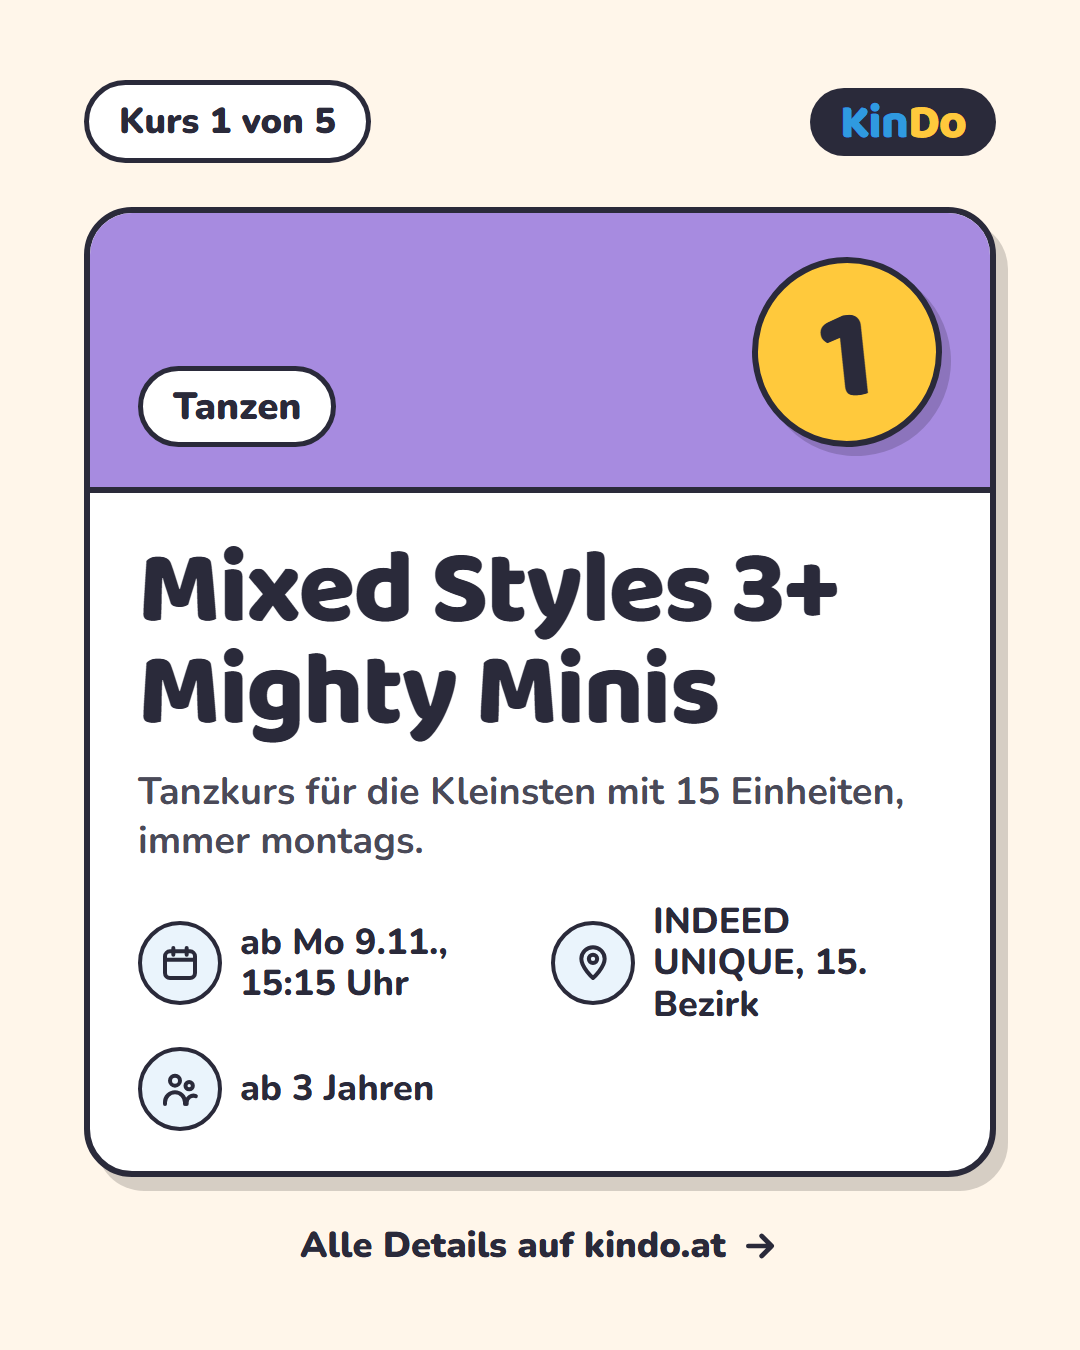
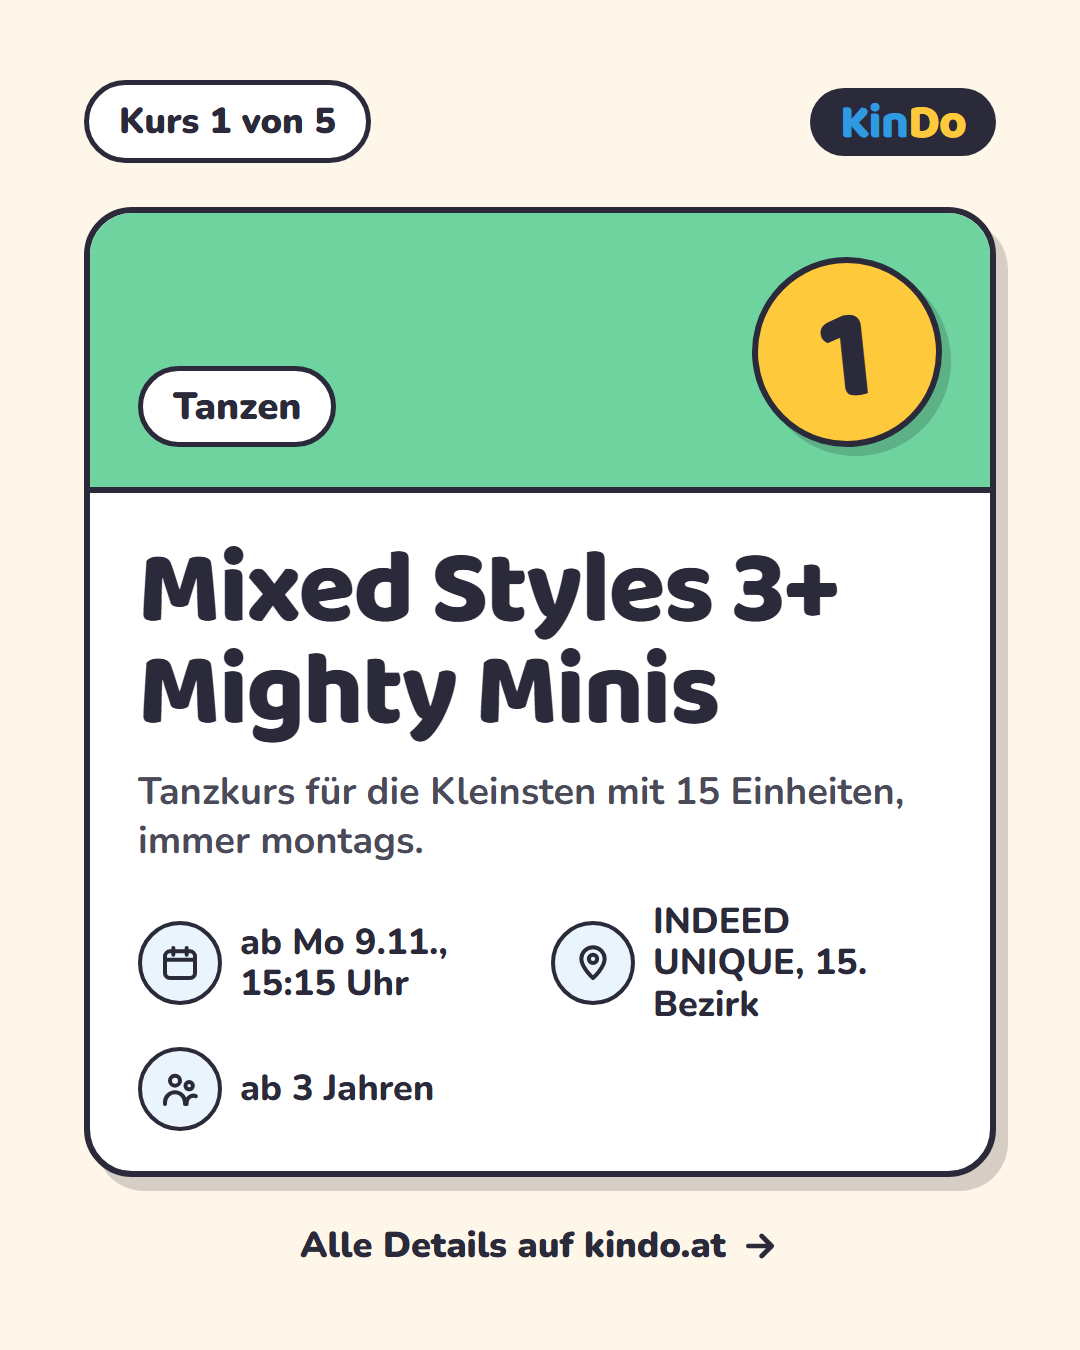
Jede Kategorie bekommt ihre eigene Farbe
Bisher teilten sich Musik, Sport, Draußen und Ausflug dasselbe Grün (dazu Kino, Zaubern und
Schwimmen Blau, Theater und Tanzen Lila, Museum und Lesen Türkis). Jetzt hat jede der 13
Kategorien eine eigene Farbe: die sieben KinDo-Farben plus sechs Sticker-Farben in derselben
Helligkeit (Musik gelb, Sport orange, Ausflug limette, Kino hellblau-violett, Zaubern orchidee,
Tanzen mint, Lesen sand). Auf gelbem Streifen ist der Kreis weiß, sonst wäre er unsichtbar.
bild.test.js prüft, dass sich keine zwei Kategorien eine Farbe teilen.

Kurs-Karussell 2026-11-09 mit den neuen Farben neu erzeugt.

Changed region(s): [[0.0611, 0.1556, 0.9167, 0.3733]]

diff --git a/bild.js b/bild.js
@@ -18,10 +18,12 @@ const { chromium } = require('playwright');
 
 const B = 1080, H = 1350;
 const INK = '#2a2a3a';
+// Jede Kategorie hat ihre eigene Farbe, damit sich zwei Karten im selben Karussell nie gleichen (Clemens, 8.11.2026).
+// Die ersten sieben sind die KinDo-Farben, dazu sechs Sticker-Farben in derselben Helligkeit (dunkle Schrift bleibt lesbar).
 const FARBEN = {
   Basteln: '#f58fb0', Theater: '#a78be0', 'Draußen': '#7cc552', Museum: '#4bc0b8', Feste: '#e8654f',
-  Musik: '#7cc552', Kino: '#2f9ae0', Sport: '#7cc552', Lesen: '#4bc0b8', Ausflug: '#7cc552', Zaubern: '#2f9ae0',
-  Tanzen: '#a78be0', Schwimmen: '#2f9ae0',
+  Schwimmen: '#2f9ae0', Musik: '#ffc93c',
+  Sport: '#ff9a3c', Ausflug: '#c2d93f', Kino: '#7f9cf0', Zaubern: '#d97fd6', Tanzen: '#6fd3a0', Lesen: '#dcb98a',
 };
 const farbe = k => FARBEN[k] || '#e8654f';
 // Das Titelbild wechselt reihum die Farbe: Montag, Wochenende, nächster Montag … nie zweimal hintereinander gleich,
@@ -107,12 +109,13 @@ function kursTitelFolie(b, montag) {
 }
 
 // Die Tipp-Karte (farbiger Streifen, Titel, Satz, Wann/Wo/Alter/Preis); kreis = Inhalt des gelben Kreises
+// (auf gelbem Streifen ist der Kreis weiß, sonst wäre er unsichtbar)
 function tippKarte(t, kreis) {
   const preis = t.preis ? `<div style="display: flex; align-items: center"><div style="transform: rotate(-3deg); background: #ffc93c; border: 5px solid ${INK}; border-radius: 18px; padding: 10px 28px 6px; font-family: 'Baloo 2', sans-serif; font-weight: 800; font-size: 48px; line-height: 1.1">${esc(t.preis)}</div></div>` : '';
   return `<div id="karte" style="flex-grow: 1; min-height: 0; display: flex; flex-direction: column; background: #ffffff; border: 6px solid ${INK}; border-radius: 48px; box-shadow: 12px 14px 0 rgba(0,0,0,.16); overflow: hidden">
 <div style="height: 280px; flex-shrink: 0; background: ${farbe(t.kategorie)}; border-bottom: 6px solid ${INK}; display: flex; justify-content: space-between; align-items: flex-end; padding: 0 48px 40px; box-sizing: border-box">
 <div style="background: #ffffff; border: 5px solid ${INK}; border-radius: 999px; padding: 10px 30px; font-weight: 900; font-size: 38px">${esc(t.kategorie)}</div>
-<div style="width: 190px; height: 190px; border-radius: 999px; background: #ffc93c; border: 6px solid ${INK}; box-shadow: 8px 10px 0 rgba(0,0,0,.16); display: flex; align-items: center; justify-content: center; font-family: 'Baloo 2', sans-serif; font-weight: 800; font-size: 130px; line-height: 1; padding-top: 14px; box-sizing: border-box; transform: rotate(-6deg)">${kreis}</div></div>
+<div style="width: 190px; height: 190px; border-radius: 999px; background: ${farbe(t.kategorie) === '#ffc93c' ? '#ffffff' : '#ffc93c'}; border: 6px solid ${INK}; box-shadow: 8px 10px 0 rgba(0,0,0,.16); display: flex; align-items: center; justify-content: center; font-family: 'Baloo 2', sans-serif; font-weight: 800; font-size: 130px; line-height: 1; padding-top: 14px; box-sizing: border-box; transform: rotate(-6deg)">${kreis}</div></div>
 <div style="padding: 48px 48px 40px; display: flex; flex-direction: column; gap: 22px; flex-grow: 1">
 <h2 id="titel" style="margin: 0; font-family: 'Baloo 2', sans-serif; font-weight: 800; font-size: 104px; line-height: .98; letter-spacing: -2px">${esc(t.titel)}</h2>
 <p style="margin: 0; font-weight: 700; font-size: 38px; line-height: 1.3; color: #4a4a58">${esc(t.satz)}</p>
@@ -228,7 +231,7 @@ async function rendern(folien, ordner, hoehe = H) {
 }
 
 // Bausteine für profil.js (Beiträge ohne Termine) und story.js (Tipp des Tages)
-module.exports = { B, H, INK, esc, farbe, logo, pfeil, schlussFolie, ICON_SPEICHERN, ICON_TEILEN, ICON_FOLGEN, rendern,
+module.exports = { B, H, INK, esc, FARBEN, farbe, logo, pfeil, schlussFolie, ICON_SPEICHERN, ICON_TEILEN, ICON_FOLGEN, rendern,
   tippKarte, TITELFARBEN, titelschrift };
 
 if (require.main === module) main().catch(e => { console.error(e.message); process.exit(1); });

diff --git a/bild.test.js b/bild.test.js
@@ -1,0 +1,12 @@
+// node --test   (prüft die Kategorie-Farben, ohne Bilder zu erzeugen)
+const test = require('node:test');
+const assert = require('node:assert');
+const { FARBEN } = require('./bild');
+
+test('jede Kategorie der Routinen hat ihre eigene Farbe', () => {
+  const kategorien = ['Basteln', 'Theater', 'Draußen', 'Museum', 'Feste', 'Musik', 'Kino', 'Sport', 'Lesen',
+    'Ausflug', 'Zaubern', 'Tanzen', 'Schwimmen'];
+  for (const k of kategorien) assert.ok(FARBEN[k], `${k} hat keine Farbe`);
+  const farben = Object.values(FARBEN);
+  assert.strictEqual(new Set(farben).size, farben.length, 'zwei Kategorien teilen sich eine Farbe');
+});

diff --git a/README.md b/README.md
@@ -13,8 +13,9 @@ https://claude.ai/artifact/Ecvhsn4f6gb8cx7UUdaA8v
 1. Eine Datei `beitraege/<Samstag>.json` anlegen:
    `datum` (z. B. `"31.10. – 1.11."`) und 3–5 `tipps`, je mit `kategorie`, `titel`, `satz`,
    `wann`, `wo`, `alter` und – wenn bekannt – `preis`.
-   Kategorien mit eigener Farbe: Basteln, Theater, Draußen, Museum, Feste, Musik, Kino, Sport,
-   Lesen, Ausflug, Zaubern.
+   Kategorien: Basteln, Theater, Draußen, Museum, Feste, Musik, Kino, Sport, Lesen, Ausflug,
+   Zaubern – jede hat ihre eigene Farbe (`FARBEN` in `bild.js`; `node --test` prüft, dass sich
+   keine zwei Kategorien eine Farbe teilen).
 2. `node bild.js beitraege/<Samstag>.json` – die Bilder landen im Ordner `beitraege/<Samstag>/`
    (1080 × 1350): `01.png` Titel, je ein Bild pro Tipp, zuletzt das Schlussbild.
 3. Committen und pushen. Die öffentlichen Adressen sind dann
